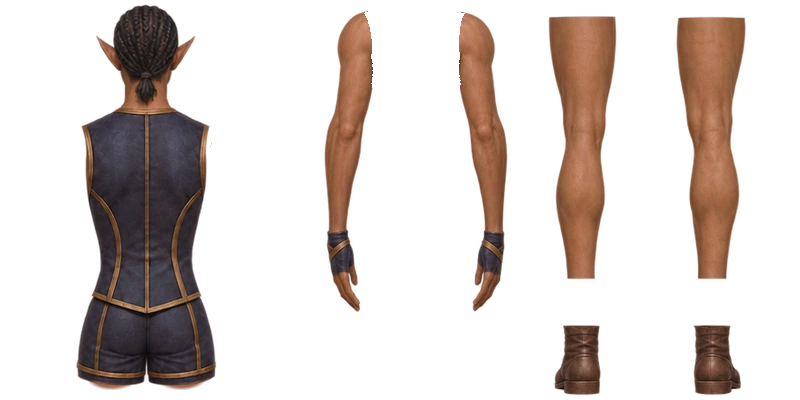
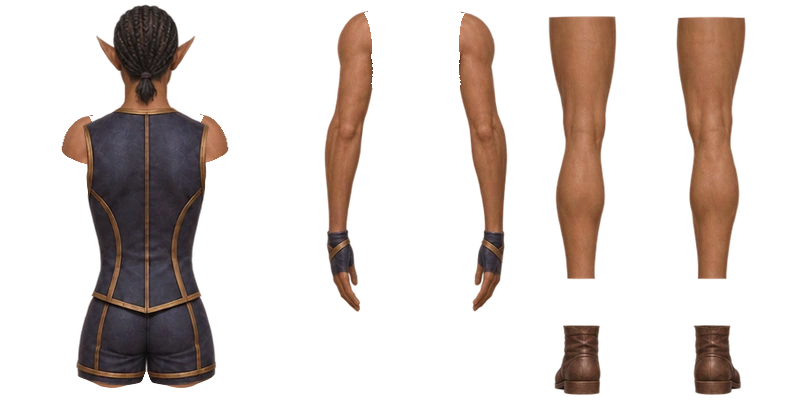
Apply reviewed elf shoulder art and Silver Curls binds for v0.3.67

diff --git a/app/src/main/java/com/cosmerearchives/dndroguelike/ElfBaseArt.java b/app/src/main/java/com/cosmerearchives/dndroguelike/ElfBaseArt.java
@@ -32,6 +32,15 @@ final class ElfBaseArt {
          {50,38,55,139,47,274,226,842}, {50,38,55,139,47,274,226,842}}
     };
 
+    // Silver Curls armhole centers in the torso cell, in limb-cell order.
+    // Rear arm cells are reflected at draw time; torso coordinates are not.
+    private static final int[][] SILVER_ARMHOLES = {
+        {25,144,266,144}, {128,156,128,156},
+        {273,142,29,141}, {135,159,135,159}
+    };
+    private final float[] drawnArmRoots = new float[4];
+    private final float[] bindDebugPoint = new float[2];
+
     private final String appearanceId;
     private final Facing[] facings = new Facing[4];
     private final Paint paint = new Paint(Paint.ANTI_ALIAS_FLAG | Paint.FILTER_BITMAP_FLAG);
@@ -87,11 +96,11 @@ final class ElfBaseArt {
     }
 
     float fittedShoulderX(int facing, int index, boolean useFit) {
-        return useFit ? RigViewProfile.shoulderFitX(appearanceId, facing, index) : 0f;
+        return useFit && !hasShoulderBinds() ? RigViewProfile.shoulderFitX(appearanceId, facing, index) : 0f;
     }
 
     float fittedShoulderY(int facing, int index, boolean useFit) {
-        if (!useFit || RigViewProfile.isSide(facing)) return 0f;
+        if (!useFit || hasShoulderBinds() || RigViewProfile.isSide(facing)) return 0f;
         // Fit from the pre-raise reference so FIT does not undo the authored lift.
         int liftPixels = switch (appearanceId) {
             case "silver" -> 10;
@@ -112,8 +121,49 @@ final class ElfBaseArt {
     void shoulderOffset(int facing, int index, RigTorsoPose pose, float[] offsets, int at) {
         Sprite arm = facings[facing].limbs[index];
         float mirror = facing == 2 ? -1f : 1f;
-        pose.offsets(arm.rootX * mirror, arm.rootY, offsets, at);
+        if (hasShoulderBinds() && pose.shoulderFitEnabled()) {
+            float x = bindX(facing,index), y = bindY(facing,index);
+            pose.offsets(x,y,offsets,at);
+            offsets[at] += x - arm.rootX * mirror;
+            offsets[at+1] += y - arm.rootY;
+        } else {
+            pose.offsets(arm.rootX * mirror, arm.rootY, offsets, at);
+        }
         offsets[at] *= mirror;
+    }
+
+    boolean hasShoulderBinds() {
+        return "silver".equals(appearanceId);
+    }
+
+    private float bindX(int facing,int index) {
+        return bodyBounds.left + SILVER_ARMHOLES[facing][index*2]*UNIT;
+    }
+
+    private float bindY(int facing,int index) {
+        return bodyBounds.top + SILVER_ARMHOLES[facing][index*2+1]*UNIT;
+    }
+
+    void drawShoulderBinds(Canvas canvas,int facing,RigTorsoPose pose,boolean showFarArm) {
+        float[] point = bindDebugPoint;
+        for(int index=0;index<2;index++){
+            if(!showFarArm && index!=(facing==3?1:0))continue;
+            float x=bindX(facing,index), y=bindY(facing,index);
+            pose.offsets(x,y,point,0);
+            x+=point[0];
+            y+=point[1];
+            float armX=drawnArmRoots[index*2], armY=drawnArmRoots[index*2+1];
+            if(facing==2)armX=-armX;
+            paint.setStrokeWidth(.65f);
+            paint.setColor(0xFFFFD481);
+            canvas.drawLine(x,y,armX,armY,paint);
+            paint.setStyle(Paint.Style.STROKE);
+            paint.setColor(0xFF75E5F5);
+            canvas.drawCircle(x,y,3f,paint);
+            paint.setStyle(Paint.Style.FILL);
+            paint.setColor(0xFFFFD481);
+            canvas.drawCircle(armX,armY,1.45f,paint);
+        }
     }
 
     void drawArm(Canvas canvas, int facing, int index, RigTorsoPose torso,
@@ -126,8 +176,11 @@ final class ElfBaseArt {
         float elbowDy = elbowY - RigViewProfile.elbowY(facing, index);
         float wristDx = wristX - RigViewProfile.handX(facing, index);
         float wristDy = wristY - RigViewProfile.handY(facing, index);
-        arm.pose(shoulderX - RigViewProfile.shoulderX(facing, index), shoulderY + 108f,
-            elbowDx, elbowDy, wristDx, wristDy);
+        float shoulderDx=shoulderX - RigViewProfile.shoulderX(facing,index);
+        float shoulderDy=shoulderY+108f;
+        drawnArmRoots[index*2]=arm.rootX+shoulderDx;
+        drawnArmRoots[index*2+1]=arm.rootY+shoulderDy;
+        arm.pose(shoulderDx,shoulderDy,elbowDx,elbowDy,wristDx,wristDy);
         if (closure > 0f && arm.sleeve != null) {
             boolean fistBehindArm = facing == 2;
             if (fistBehindArm) {

diff --git a/app/src/main/java/com/cosmerearchives/dndroguelike/OutdoorActivity.java b/app/src/main/java/com/cosmerearchives/dndroguelike/OutdoorActivity.java
@@ -104,7 +104,8 @@ public final class OutdoorActivity extends Activity {
         private ElfAppearance appearance;
         private final RectF modelToggleBounds=new RectF();
         private final RectF viewToggleBounds=new RectF();
-        private boolean closeUp;
+        private boolean closeUp, shoulderBinds;
+        private final RectF shoulderBindBounds=new RectF();
         private final String heroName;
         private float x=0.5f,y=0.5f,camX=x,camY=y,targetX=x,targetY=y;
         private float joyX,joyY,knobX,knobY;
@@ -576,7 +577,19 @@ public final class OutdoorActivity extends Activity {
             float feetY=bottom-Math.max(15f*d,13f*scale);
             float phase=attackProgress();
             riggedArt.draw(c,closeWidth*.5f,feetY,scale,facing,walkTime,
-                gaitBlend,idleTime,phase,false,closeWidth);
+                gaitBlend,idleTime,phase,false,closeWidth,shoulderBinds);
+
+            if(appearance==ElfAppearance.SILVER){
+                shoulderBindBounds.set(12*d,72*d,112*d,103*d);
+                rounded(c,shoulderBinds?0xFF3C685B:0xFF324B55,
+                    shoulderBindBounds.left,shoulderBindBounds.top,
+                    shoulderBindBounds.right,shoulderBindBounds.bottom,6*d);
+                text(c,"SHOULDER BINDS",18*d,91*d,9*d,0xFFF3DBA4);
+                if(shoulderBinds){
+                    text(c,"Cyan: armhole",18*d,117*d,9*d,0xFF75E5F5);
+                    text(c,"Gold: arm root",18*d,130*d,9*d,0xFFFFD481);
+                }
+            }
 
             float referenceX=closeWidth+referenceWidth*.5f;
             oval(c,0x99112125,referenceX-23*referenceScale,feetY-4*referenceScale,
@@ -800,6 +813,11 @@ public final class OutdoorActivity extends Activity {
                     return true;
                 }
                 if(sy>h)return true;
+                if(closeUp && appearance==ElfAppearance.SILVER && shoulderBindBounds.contains(sx,sy)){
+                    shoulderBinds=!shoulderBinds;
+                    invalidate();
+                    return true;
+                }
                 if(viewToggleBounds.contains(sx,sy)){
                     closeUp=!closeUp;
                     invalidate();return true;

diff --git a/app/src/main/java/com/cosmerearchives/dndroguelike/RiggedElf.java b/app/src/main/java/com/cosmerearchives/dndroguelike/RiggedElf.java
@@ -70,6 +70,13 @@ final class RiggedElf {
     void draw(Canvas canvas,float footX,float footY,float scale,int facing,
               float distanceCycles,float movementBlend,float idleElapsed,
               float attackProgress,boolean armored,float closeUpWidth) {
+        draw(canvas,footX,footY,scale,facing,distanceCycles,movementBlend,idleElapsed,
+            attackProgress,armored,closeUpWidth,false);
+    }
+
+    void draw(Canvas canvas,float footX,float footY,float scale,int facing,
+              float distanceCycles,float movementBlend,float idleElapsed,
+              float attackProgress,boolean armored,float closeUpWidth,boolean showShoulderBinds) {
         Canvas c=canvas;
         float blend=clamp(movementBlend,0f,1f);
         boolean side=RigViewProfile.isSide(facing);
@@ -318,6 +325,10 @@ final class RiggedElf {
             if (armored) drawSwordGrip(c,rightHand,rightHandY,attack.blade);
         }
 
+        if(showShoulderBinds && boundBase && baseArt.hasShoulderBinds()){
+            if(back)c.scale(-1f,1f);
+            baseArt.drawShoulderBinds(c,facing,torso,showFarLimbs);
+        }
         c.restore();
         c.restore();
     }
